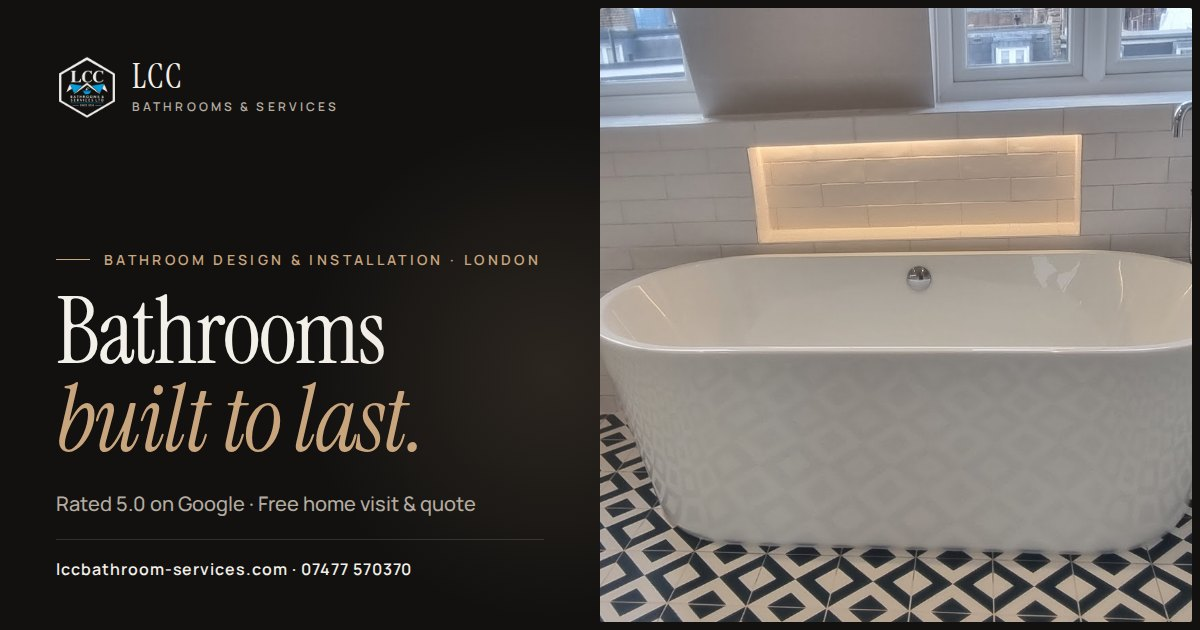
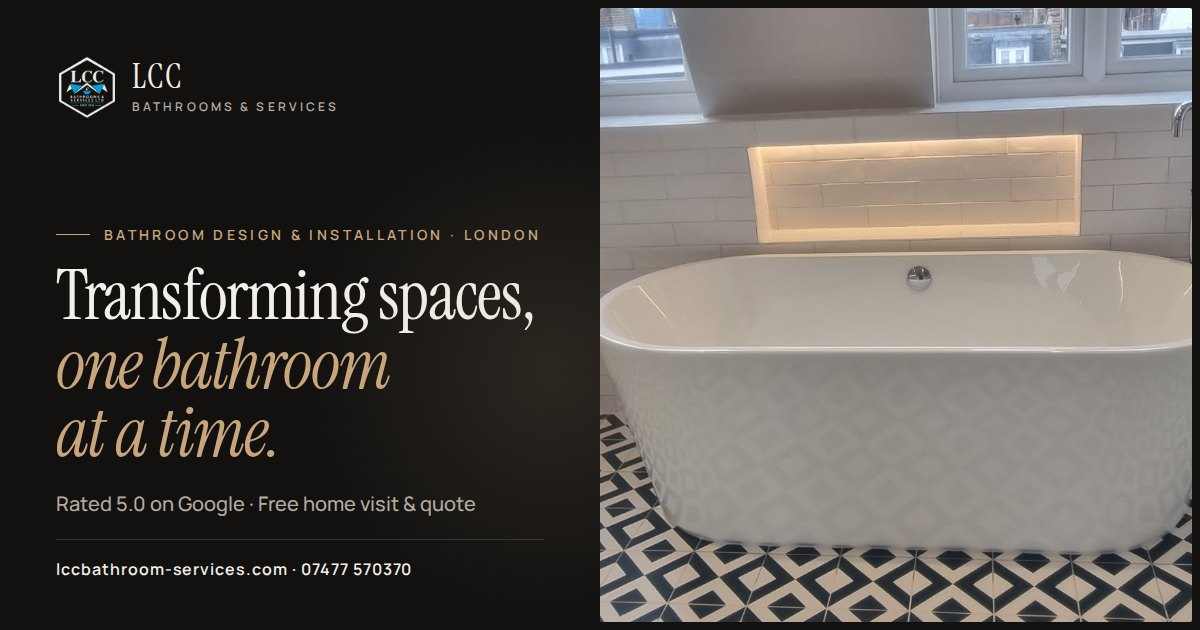
New slogan: Transforming spaces, one bathroom at a time.
Homepage headline (split at the comma, second half in italic, sized down to
fit), footer and homepage share image.

Changed region(s): [[0.0308, 0.3619, 0.4625, 0.7238]]

diff --git a/src/pages/Home.jsx b/src/pages/Home.jsx
@@ -19,9 +19,12 @@ const featuredPhotos = [
   ...new Set([featured.image, ...(featured.images || [])].filter(Boolean)),
 ]
 
-// "Bathrooms built to last." → first word upright, the rest in italic.
+// "Transforming spaces, one bathroom at a time." → split after the first comma
+// (or, without one, after the first word); the second half is set in italic.
 function Headline({ text }) {
-  const [first, ...rest] = text.split(' ')
+  const cut = text.indexOf(',')
+  const [first, ...rest] =
+    cut > 0 ? [text.slice(0, cut + 1), text.slice(cut + 1).trim()] : text.split(' ')
   return (
     <h1 className="hero__title">
       <span className="line"><span className="line__in">{first}</span></span>

diff --git a/src/components/Footer.jsx b/src/components/Footer.jsx
@@ -12,7 +12,9 @@ export default function Footer() {
           <div className="footer__brand">
             <img src={asset('logo-light.png')} alt={company.name} width="96" height="96" />
             <p>
-              {company.tagline} {company.serviceArea}.
+              {company.tagline}
+              <br />
+              Bathroom renovations across {company.serviceArea}.
             </p>
             <Accreditations variant="row" />
           </div>

diff --git a/src/index.css b/src/index.css
@@ -329,8 +329,8 @@ p:last-child { margin-bottom: 0; }
   .hero__grid { grid-template-columns: minmax(0, 1.12fr) minmax(0, 0.88fr); }
 }
 .hero__title {
-  font-size: clamp(4rem, 9.2vw, 8.4rem);
-  line-height: 0.92;
+  font-size: clamp(3.1rem, 6.2vw, 6.3rem);
+  line-height: 0.95;
   letter-spacing: -0.025em;
   margin: 0 0 32px;
 }
